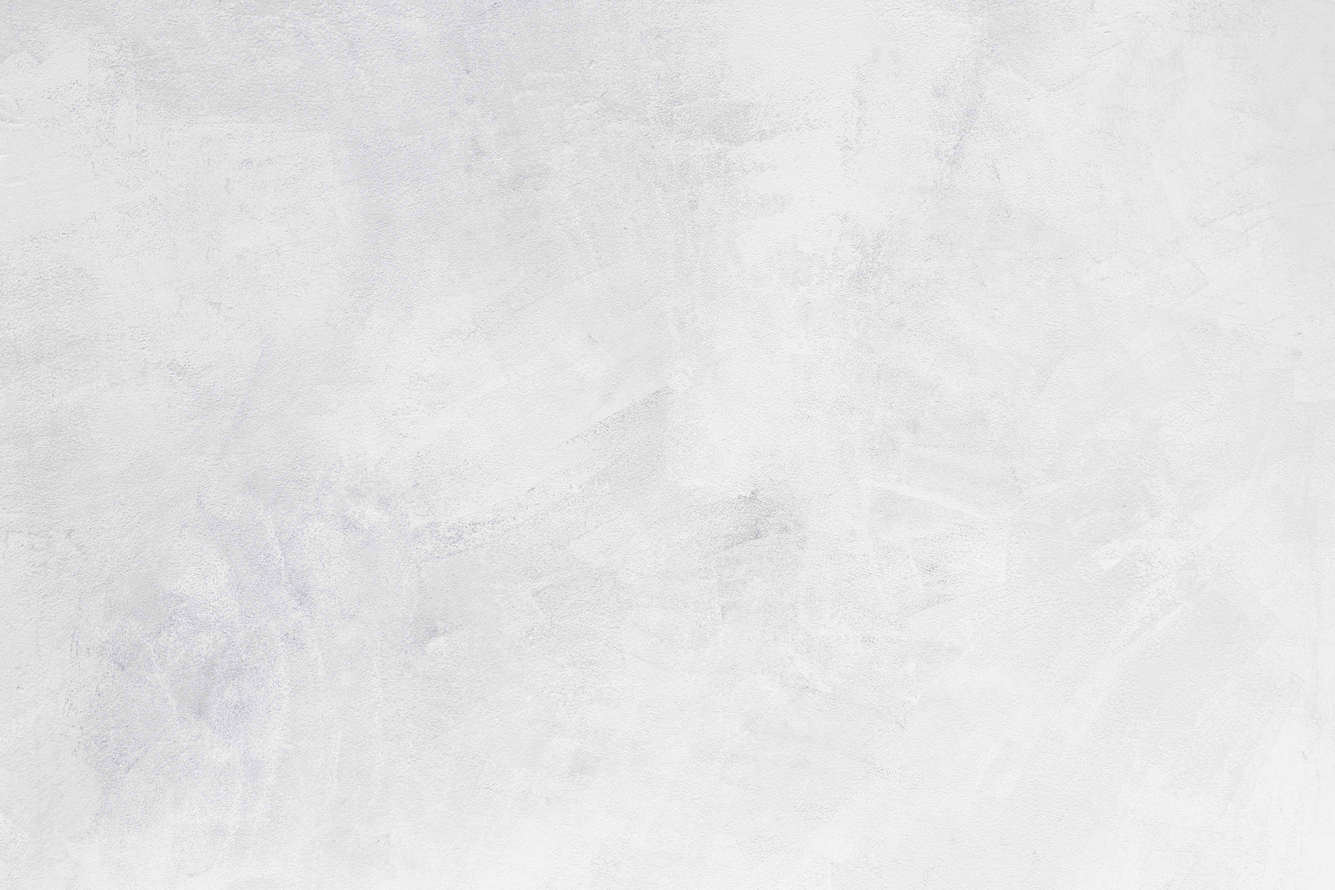
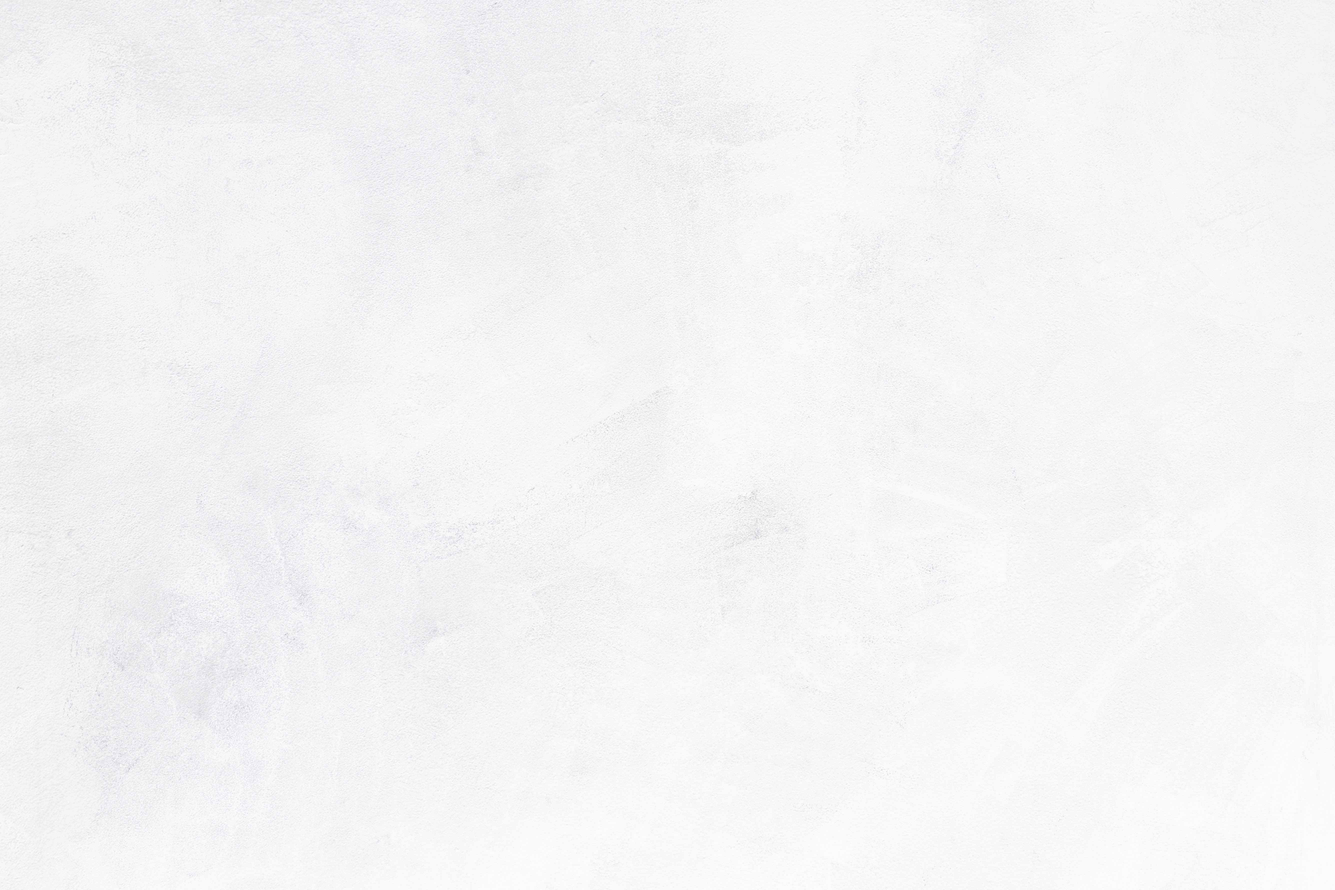
bg

diff --git a/_sass/minima.scss b/_sass/minima.scss
@@ -50,21 +50,11 @@ $on-laptop:        800px !default;
 ;
 
 
-
-.page-content::after {
-    background: linear-gradient(30deg, #fffffe, #eee);
-    position: absolute;
-    top: 0;
-    bottom: 0;
-    right: 0;
-    left: 0;
-    content: "";
-    z-index: -1;
-}
 .page-content {
-    background-image: url("http://api.thumbr.it/whitenoise-361x370.png?background=fcfcfe00&noise=d0e0d0&density=25&opacity=90 ");
-    position: relative;
-}
+	background-image:url("/votroubek_facility/assets/pozadi2.jpg");
+background-size:cover;
+   }
+
 
 @include media-query($on-palm) {
    .page-content {
